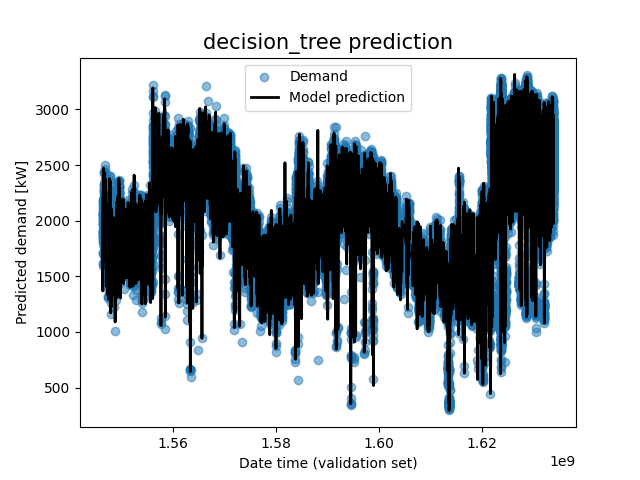
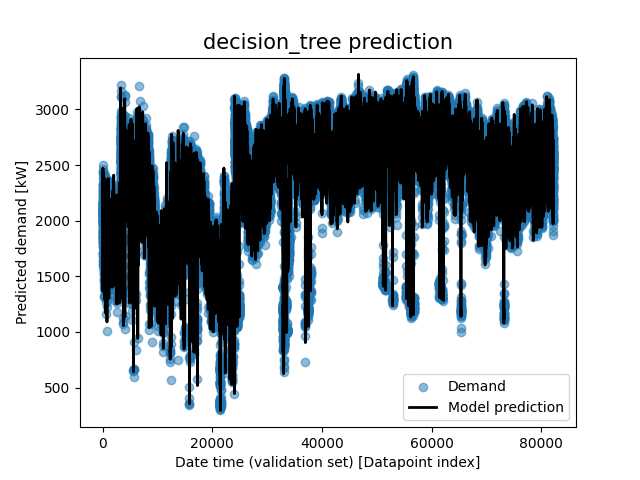
Updated prediction images

diff --git a/evaluation.py b/evaluation.py
@@ -56,11 +56,11 @@ X_val = val['datetime_local']
 for i, model in enumerate(model_predictions):
     plt.figure()
     y_pred = model_predictions[model]
-    plt.scatter(X_val, y_val, alpha=0.5, label='Demand')
-    plt.plot(X_val, y_pred, c='k', linewidth=2, label='Model prediction')
+    plt.scatter(np.arange(len(X_val)), y_val, alpha=0.5, label='Demand')
+    plt.plot(np.arange(len(X_val)), y_pred, c='k', linewidth=2, label='Model prediction')
     plt.title(f'{model} prediction', fontsize=15)
     plt.legend()
-    plt.xlabel('Date time (validation set)')
+    plt.xlabel('Date time (validation set) [Datapoint index]')
     plt.ylabel('Predicted demand [kW]')
     plt.show()
 plt.close()

diff --git a/test_prediction.py b/test_prediction.py
@@ -2,7 +2,6 @@
 import pandas as pd
 import numpy as np
 from sklearn.ensemble import RandomForestRegressor
-from sklearn.model_selection import cross_val_score
 
 # Constants
 MODEL_NAME = 'random_forest'
@@ -27,7 +26,6 @@ pipeline = RandomForestRegressor(n_estimators=10, random_state=0, bootstrap = Tr
 pipeline.fit(X_train.append(X_val), np.append(y_train, y_val))
 
 y_test = np.array(list(pipeline.predict(X_test)))
-
 
 original_demand = pd.read_csv('data/demand_kWtrain_val.csv')
 original_demand = original_demand.iloc[273988:]
